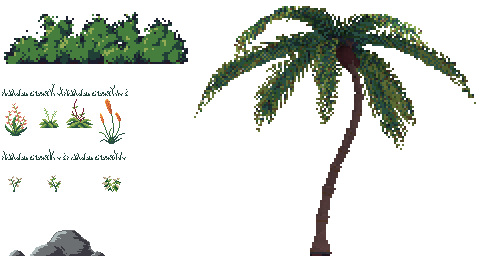
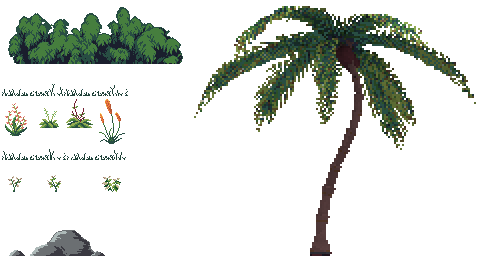
update assets

Changed region(s): [[0.0, 0.0312, 0.4062, 0.25]]

diff --git a/samples/scratchpad/src/bush/BushState.cpp b/samples/scratchpad/src/bush/BushState.cpp
@@ -861,23 +861,19 @@ void BushState::loadModel(const std::string& path)
         meshData.primitiveType = GL_POINTS;
 
         //fudgy but it'll do to prove it works.
+        auto mat = m_resources.materials.get(branchMaterial);
+        if (md.getMaterial(0)->properties.count("u_diffuseMap"))
+        {
+            cro::TextureID tid(md.getMaterial(0)->properties.at("u_diffuseMap").second.textureID);
+            mat.setProperty("u_texture", tid);
+        }
+        entity.getComponent<cro::Model>().setMaterial(0, mat);
+
+
         if (meshData.submeshCount > 1)
         {
             meshData.indexData[1].primitiveType = GL_POINTS;
             entity.getComponent<cro::Model>().setMaterial(1, m_resources.materials.get(bushMaterial));
-
-            auto mat = m_resources.materials.get(branchMaterial);
-            if (md.getMaterial(0)->properties.count("u_diffuseMap"))
-            {
-                cro::TextureID tid(md.getMaterial(0)->properties.at("u_diffuseMap").second.textureID);
-                mat.setProperty("u_texture", tid);
-            }
-            entity.getComponent<cro::Model>().setMaterial(0, mat);
-        }
-        else
-        {
-            meshData.indexData[0].primitiveType = GL_POINTS;
-            entity.getComponent<cro::Model>().setMaterial(0, m_resources.materials.get(bushMaterial));
         }
 
         treeset.modelPath = cro::FileSystem::getFileName(path);

diff --git a/crogine/src/core/App.cpp b/crogine/src/core/App.cpp
@@ -258,7 +258,7 @@ void App::run()
     LogI << "Using SDL " << (int)v.major << "." << (int)v.minor << "." << (int)v.patch << std::endl;
 
     auto settings = loadSettings();
-    glm::uvec2 size = settings.fullscreen ? settings.windowedSize : glm::uvec2(settings.width, settings.height);
+    glm::uvec2 size = settings.fullscreen ? glm::uvec2(settings.windowedSize) : glm::uvec2(settings.width, settings.height);
 
     if (m_window.create(size.x, size.y, "crogine game", m_windowStyleFlags))
     {

diff --git a/samples/golf/src/golf/Treeset.hpp b/samples/golf/src/golf/Treeset.hpp
@@ -111,7 +111,8 @@ struct Treeset final
             return false;
         }
 
-        if (!cro::FileSystem::fileExists(texturePath))
+        if (!leafIndices.empty() &&
+            !cro::FileSystem::fileExists(texturePath))
         {
             LogE << fileName << ": no file exists at texture path" << std::endl;
             return false;

diff --git a/samples/golf/src/golf/SharedStateData.hpp b/samples/golf/src/golf/SharedStateData.hpp
@@ -178,7 +178,7 @@ struct SharedStateData final
     {
         Low, Medium, High
     };
-    std::int32_t treeQuality = 2;
+    std::int32_t treeQuality = Low;
 
     std::int32_t baseState = 0; //used to tell which state we're returning to from errors etc
     std::unique_ptr<cro::ResourceCollection> sharedResources;
